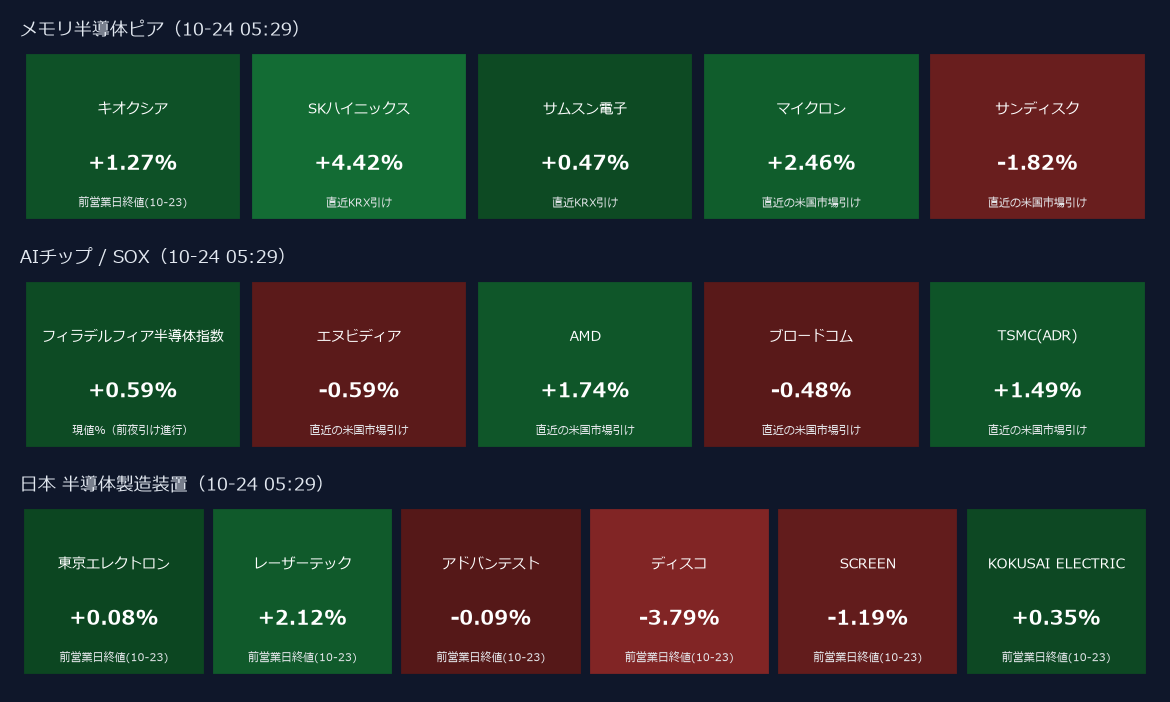
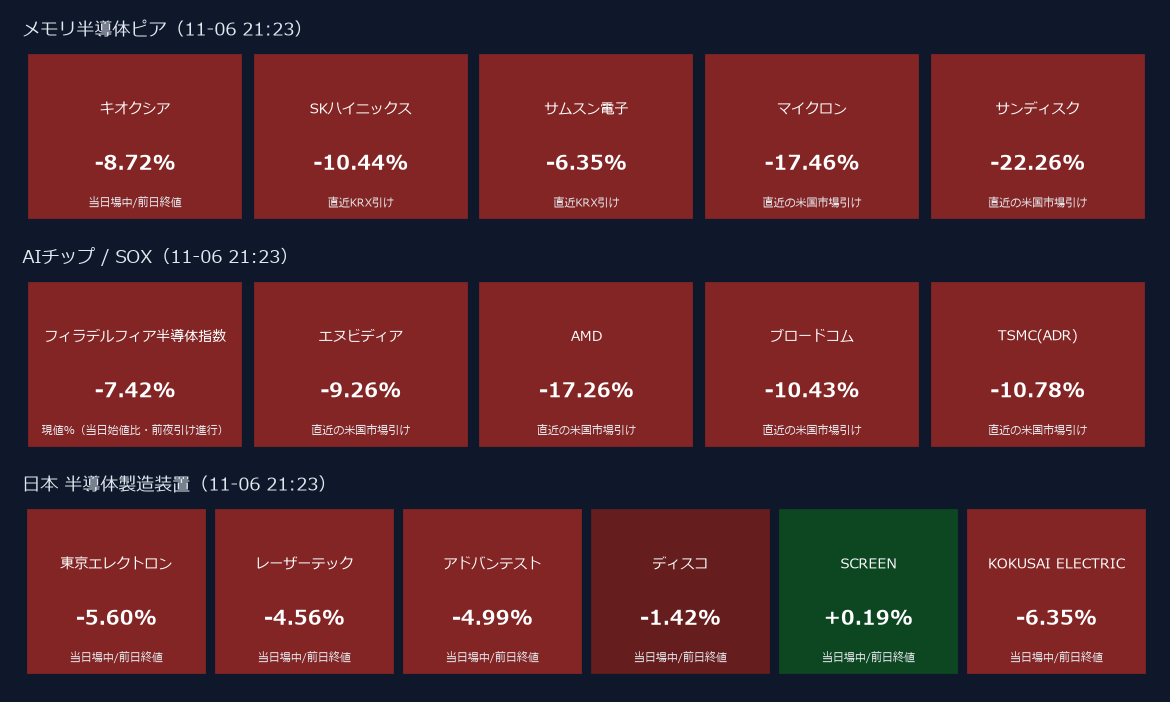
auto: refresh static site (2026-11-06 21:29:19 JST)

diff --git a/docs/index.html b/docs/index.html
@@ -81,8 +81,8 @@ a{color:var(--acc)}.disc{border-top:1px solid var(--border);margin-top:24px;padd
 <body><div class="wrap">
 <h1>🧠 AIセクター ワールドモニター | キオクシア(285A) 投資参考情報（投資は自己責任）</h1>
 <a class="cross-link" href="https://ethanhuntstock.github.io/Keijiban-bunseki/" target="_blank" rel="noopener noreferrer">🔗 285A 掲示板投稿の詳細分析による投資情報（静的版）</a>
-<div class="muted">静的共有版｜生成 2026-11-06 21:18 JST｜価格: Yahoo Finance｜ニュース: RSS｜イベント: 手動正本｜60秒毎に自動更新（ブラウザが自動的に再読み込み）</div>
-<div class="muted">データ取得 11-06 21:18｜公開ページ生成 2026-11-06 21:18 JST（公開サイトへの反映に数分かかることがあります）</div>
+<div class="muted">静的共有版｜生成 2026-11-06 21:28 JST｜価格: Yahoo Finance｜ニュース: RSS｜イベント: 手動正本｜60秒毎に自動更新（ブラウザが自動的に再読み込み）</div>
+<div class="muted">データ取得 11-06 21:28｜公開ページ生成 2026-11-06 21:28 JST（公開サイトへの反映に数分かかることがあります）</div>
 
 <div class="label-note">※「バイアス」「買い目線/売り目線」「発火」「ボラ警戒」は<b>状態を記述するラベル</b>であり売買推奨ではありません。</div>
 <details class="panel"><summary><b>🔤 用語の説明</b>（タップで開く）</summary><ul><li><b>地合いスコア</b>＝マクロ（SOX/円）・メモリ同業・キオクシア固有イベント・ニュース温度を重み付けして合成した観測値。掲示板温度は観測のみ（重み0）。売買推奨ではありません。</li><li><b>型A〜F</b>＝その日の値動きの形を、寄り30分での高安の決まり方と終値の位置から6パターンに機械的に分けたもの（詳細は「本日のチャートの型」の「?」）。場中は暫定です。</li><li><b>ギャップ</b>＝前営業日の終値に対する、寄り値（寄り前は寄り想定）の差の率。</li><li><b>板寄せ</b>＝注文をいったん集めて、売りと買いが釣り合う値段で一度に約定を決める方式（寄り付きと引けで使われます）。</li><li><b>特別気配</b>＝寄り付きで売りと買いが釣り合わないとき、約定せずに気配値だけが示される状態。寄りの約定が遅れる原因の一つです。</li><li><b>寄り値</b>＝その日の最初の約定の価格。寄り前の気配（板の売り買いの気配）とは別の値です。</li><li><b>寄り遅れ日</b>＝285Aの最初の約定が09:00から3分以上遅れた日（観測のみ・原因の断定はしません）。</li></ul></details>
@@ -90,7 +90,7 @@ a{color:var(--acc)}.disc{border-top:1px solid var(--border);margin-top:24px;padd
 <p id='like-button-wrap' class='muted'><button id='like-button' type='button' class='like-btn'>👍</button><span id='like-count-label'>このダッシュボードが役に立ったら押してください（累計 3 いいね）</span></p>
 
 <h2>🤖 AI考察<span class="help" tabindex="0"><span class="help-ico">?</span><span class="help-pop">【数値要約】は、モニターが観測している主要な指標（地合いスコア・285A・ピア・為替・需給・寄りの状態・予定など）の値を、元データのまま定型の文にして約10分ごとに更新する要約です（文章の自動生成はしていません）。<br><br>【Claude考察】は、平日の寄り前・寄り直後・前場引け前・大引け後（急変時は臨時）にClaude(AI)が書いた観測・状況整理で、書かれた時点を明記し、その後の数値は上の数値要約で更新しています。<br><br><b>無料公開データの観測情報であり、投資助言・売買推奨ではありません。</b>更新の時点と周期は、下の「AI考察の予定」を参照してください。値動きへの反映にはタイムラグがあります。</span></span></h2>
-<div class="panel ai-insight-box ai-summary-box"><b>【数値要約｜21:13 更新】</b><div>大引け後・本日(11-06)の終値時点の値</div><div>地合い: ショート寄り -46.9（前回 11-05 -38.5・前回比 -8.5）／主因=メモリピア -30.0pt・マクロ(SOX/円) -18.3pt</div><div>285A: 8,511円（前営業日終値比 -8.72%）・出来高倍率 2.21・テクニカル=弱気・型=寄り底・終日上昇</div><div>ピア: メモリ 平均 -13.05%（最大変動 サンディスク -22.26%）／AIチップ/SOX 平均 -11.03%（最大変動 AMD -17.26%）／日本の半導体製造装置関連 平均 -3.79%（最大変動 KOKUSAI ELECTRIC -6.35%）</div><div>為替・先物: USDJPY -0.04%・米10年 4.84%・日経先物 前日比 +2.14%（現物前日終値比 +1.66%）</div><div>需給: 信用倍率 25.42（11-05基準・前営業日比 -33.6%）</div><div>寄り: 寄り不完全（遅れ45銘柄・285Aの最初の約定 09:27:02）・費用倍率 直前営業日406.9倍・直近平均371.0倍（往復費用 2.76bp・分割前水準の実測／分割後の試算(暫定) 3.36bp）</div><div>変化点: 前回から大きな変化なし</div><div>予定: 11-06 米雇用統計(10月分)・11-10 米CPI(10月分)・11-23 東証休場(勤労感謝の日)・12-04 米雇用統計(11月分)</div></div><div class="panel ai-insight-box ai-claude-box"><b>【Claude考察｜11-06 17:31 時点（大引け後）】</b><div>※無料公開データを機械的に集計した観測情報であり、投資助言・売買推奨ではありません。（11-06 大引け後の整理・17:31時点）<br>
+<div class="panel ai-insight-box ai-summary-box"><b>【数値要約｜21:24 更新】</b><div>大引け後・本日(11-06)の終値時点の値</div><div>地合い: ショート寄り -46.5（前回 11-05 -38.5・前回比 -8.1）／主因=メモリピア -30.0pt・マクロ(SOX/円) -17.9pt</div><div>285A: 8,511円（前営業日終値比 -8.72%）・出来高倍率 2.21・テクニカル=弱気・型=寄り底・終日上昇</div><div>ピア: メモリ 平均 -13.05%（最大変動 サンディスク -22.26%）／AIチップ/SOX 平均 -11.03%（最大変動 AMD -17.26%）／日本の半導体製造装置関連 平均 -3.79%（最大変動 KOKUSAI ELECTRIC -6.35%）</div><div>為替・先物: USDJPY -0.02%・米10年 4.84%・日経先物 前日比 +1.93%（現物前日終値比 +1.45%）</div><div>需給: 信用倍率 25.42（11-05基準・前営業日比 -33.6%）</div><div>寄り: 寄り不完全（遅れ45銘柄・285Aの最初の約定 09:27:02）・費用倍率 直前営業日406.9倍・直近平均371.0倍（往復費用 2.76bp・分割前水準の実測／分割後の試算(暫定) 3.36bp）</div><div>変化点: 前回から大きな変化なし</div><div>予定: 11-06 米雇用統計(10月分)・11-10 米CPI(10月分)・11-23 東証休場(勤労感謝の日)・12-04 米雇用統計(11月分)</div></div><div class="panel ai-insight-box ai-claude-box"><b>【Claude考察｜11-06 17:31 時点（大引け後）】</b><div>※無料公開データを機械的に集計した観測情報であり、投資助言・売買推奨ではありません。（11-06 大引け後の整理・17:31時点）<br>
 <br>
 ■ 本日の285A：寄りが遅れた日<br>
 285Aの本日の終値は8,511円で、前営業日（11-05）の終値9,324円と比べて-8.72%でした。寄り付きは09:27:02で通常より遅れ、寄り値は7,900円（寄り値の前営業日の終値からの変化は-15.27%）でした。当日高値は8,718円（11:29）、安値は7,900円（09:27）でした。<br>
@@ -110,7 +110,7 @@ a{color:var(--acc)}.disc{border-top:1px solid var(--border);margin-top:24px;padd
 ■ 需給と今後の予定<br>
 キオクシア（285A）の信用倍率は11-05基準で25.42倍（1つ前の11-04基準は38.28倍）です。今後は11-10に米CPI(10月分)、11-23に東証休場(勤労感謝の日)、12-04に米雇用統計(11月分)が予定されています。以上は将来の値動きを示すものではありません。<br>
 <br>
-※訂正のお知らせ：11-06の寄り直後・臨時・前場引け前・大引け後の考察で、285Aの寄り値と安値を7,905円（寄り値の前営業日比-15.22%）と記載していましたが、正しくは7,900円（同-15.27%）でした。記録している最初の約定が寄り付き直後の値だったためで、取引所の日足と1分足の寄り値・安値は7,900円です。</div><div class="muted">※この考察は3時間46分前のものです。以降の数値は上の数値要約で更新しています。</div></div><div class="asof-line">根拠データの時点（公開ページ生成時の取得時点）: <span>価格 21:18</span>／<span>マクロ 21:18</span>／<span>ニュース 21:18</span>／<span>掲示板 21:06</span>／<span>地合い 21:18</span></div>
+※訂正のお知らせ：11-06の寄り直後・臨時・前場引け前・大引け後の考察で、285Aの寄り値と安値を7,905円（寄り値の前営業日比-15.22%）と記載していましたが、正しくは7,900円（同-15.27%）でした。記録している最初の約定が寄り付き直後の値だったためで、取引所の日足と1分足の寄り値・安値は7,900円です。</div><div class="muted">※この考察は3時間57分前のものです。以降の数値は上の数値要約で更新しています。</div></div><div class="asof-line">根拠データの時点（公開ページ生成時の取得時点）: <span>価格 21:28</span>／<span>マクロ 21:29</span>／<span>ニュース 21:28</span>／<span>掲示板 21:22</span>／<span>地合い 21:28</span></div>
 <div class="ai-schedule"><b>AI考察の予定</b><div>平日の立会日に、寄り前 08:50／寄り直後 09:10／前場引け前 11:30／大引け後 15:45 の4時点で考察を更新します（考察はClaude(AI)が書きます）。</div><div>土日祝などの休場日は考察を書きません。</div><div>時点の間は、数値のみを約10分ごとに更新します（文章は次の時点まで更新されません）。</div><div>次の予定: 11-09 08:50（寄り前）／直近の更新: 11-06 17:31（大引け後）</div></div>
 
 <h2>🗓 週次サマリー（今週のセクターの流れ）<span class="help" tabindex="0"><span class="help-ico">?</span><span class="help-pop">regime_score_log.csv(既存のOOS台帳と同じ台帳)の直近5営業日を集計しただけの観測パネルです。新規のデータ取得・LLM呼び出しは一切ありません。<br><br><b>観測情報であり売買シグナルではありません。</b>バイアスの当たり外れ(方向的中率)は標本が少なすぎるためここでは判定しません(判定は既存の「📒OOS台帳」を参照)。</span></span></h2>
@@ -125,18 +125,18 @@ a{color:var(--acc)}.disc{border-top:1px solid var(--border);margin-top:24px;padd
 <h2>今日のバイアス（地合いスコア）<span class="help" tabindex="0"><span class="help-ico">?</span><span class="help-pop">複数の判断材料（マクロ・メモリ同業・キオクシア固有イベント・ニュース）を1つに合成した“今日の地合い（売買の傾き）”です。プラスほど買い目線、マイナスほど売り目線。<br><br><b>表の見方</b><br>subscore＝各軸の素点（-1〜+1）／weight＝その軸の重み（合計が1になるよう設計）／寄与＝subscore×weight×100。寄与がプラスの軸ほどバイアスを押し上げ、マイナスの軸ほど押し下げています。<br><br><b>各軸の意味</b><br>マクロ(SOX/円)＝米半導体指数と為替の逆風/追い風／メモリピア＝同業(SKハイニックス・サムスン・マイクロン・サンディスク)の値動き／キオクシア固有イベント(守り)＝決算・増資等の警戒度合い（マイナス方向のみに働く軸）／ニュース温度＝ニュース見出しの強気/弱気を自動採点。<br><br>total_score ＋10超＝ロング寄り／−10未満＝ショート寄り／その間＝中立。<b>機械的な目安で、最終判断は人・1日で断定しない。</b></span></span></h2>
 <div class="panel">
   <span class="bias short">ショート寄り</span>
-  <span class="score">total -46.7</span>
-  <span class="delta">▼-8.3（前回 11-05 -38.5 ショート寄り・変化なし）</span>
-  <div class="muted">時点 11-06 21:18｜status ok
+  <span class="score">total -46.5</span>
+  <span class="delta">▼-8.0（前回 11-05 -38.5 ショート寄り・変化なし）</span>
+  <div class="muted">時点 11-06 21:28｜status ok
   </div>
   <img src="images/regime.png" alt="地合いスコア内訳">
-  <table><thead><tr><th>軸</th><th class=num>subscore</th><th class=num>weight</th><th class=num>寄与</th></tr></thead><tbody><tr><td>マクロ(SOX/円)</td><td class=num>-0.5164</td><td class=num>0.35</td><td class='num neg'>-18.07</td></tr><tr><td>メモリピア</td><td class=num>-1.0</td><td class=num>0.3</td><td class='num neg'>-30.00</td></tr><tr><td>キオクシア固有イベント(守り)</td><td class=num>0.0</td><td class=num>0.2</td><td class='num '>+0.00</td></tr><tr><td>ニュース温度</td><td class=num>0.0909</td><td class=num>0.15</td><td class='num pos'>+1.36</td></tr><tr><td>掲示板温度(観測)</td><td class=num>0.0954</td><td class=num>0.0</td><td class='num '>+0.00</td></tr><tr><td>予想ボラ(観測)</td><td class=num>-0.3553</td><td class=num>0.0</td><td class='num '>+0.00</td></tr></tbody></table>
+  <table><thead><tr><th>軸</th><th class=num>subscore</th><th class=num>weight</th><th class=num>寄与</th></tr></thead><tbody><tr><td>マクロ(SOX/円)</td><td class=num>-0.5104</td><td class=num>0.35</td><td class='num neg'>-17.86</td></tr><tr><td>メモリピア</td><td class=num>-1.0</td><td class=num>0.3</td><td class='num neg'>-30.00</td></tr><tr><td>キオクシア固有イベント(守り)</td><td class=num>0.0</td><td class=num>0.2</td><td class='num '>+0.00</td></tr><tr><td>ニュース温度</td><td class=num>0.0909</td><td class=num>0.15</td><td class='num pos'>+1.36</td></tr><tr><td>掲示板温度(観測)</td><td class=num>0.0897</td><td class=num>0.0</td><td class='num '>+0.00</td></tr><tr><td>予想ボラ(観測)</td><td class=num>-0.3553</td><td class=num>0.0</td><td class='num '>+0.00</td></tr></tbody></table>
   <div class="muted">total_score ＋10超＝ロング寄り／−10未満＝ショート寄り／その間＝中立。内訳を見て最終判断は人・1日で断定しない。</div>
-  <div class="plain">掲示板センチメント(強気/弱気の投稿の傾き)を観測用の第5軸として表示しています。今は重みゼロの観測専用で、地合いスコアには含まれません。</div><div class="muted">掲示板温度 +0.10（観測・寄与0）｜灼熱 32／セリクラ 35｜発火 2/9｜11-06 21:06　｜直近6h推移: 強気比<span class="">—</span>（上昇）</div>
+  <div class="plain">掲示板センチメント(強気/弱気の投稿の傾き)を観測用の第5軸として表示しています。今は重みゼロの観測専用で、地合いスコアには含まれません。</div><div class="muted">掲示板温度 +0.09（観測・寄与0）｜灼熱 33／セリクラ 35｜発火 2/9｜11-06 21:22　｜直近6h推移: 強気比<span class="">—</span>（上昇）</div>
 </div>
 
 <h2>寄り前ブリーフ<span class="help" tabindex="0"><span class="help-ico">?</span><span class="help-pop">前夜の米国市場（SOX指数・マイクロン等）と為替・金利から、今朝のキオクシア(285A)の寄り付き方向（上ギャップ＝高く始まる/下ギャップ＝安く始まる）を推定します。“攻め”は順張りしやすい地合い、“守り”は慎重・無理しない地合い。<br><br><b>表の項目</b><br>各行＝前夜の米国市場や為替の変化率(値%)に重み(weight)を掛けて寄与に変換したもの。SOX指数（フィラデルフィア半導体指数）＝米半導体株の代表指数／マイクロン(MU)・サンディスク(SNDK)＝キオクシアと同じNAND/DRAM同業の米国株／エヌビディア(NVDA)＝AI需要の代表株／ドル円(USD/JPY)＝前夜からの為替変化（円安＝寄与＋）／米10年金利(^TNX)＝米国債10年利回り（配信値を1/10に正規化。上昇はグロース株に逆風）。</span></span></h2>
-<div class="panel"><div class="plain">前夜の米国市場と為替・金利から、今朝のキオクシア(285A)の寄り付き方向を推定した記述です。▼ 下ギャップ＝高く/安く始まる見立て、「守り」＝攻め(順張りしやすい)/守り(慎重)/中立のいずれか。</div><div class="muted"><b>▼ 下ギャップ</b>　守り　日経先物の前日比（NIY=F） +2.25%（NIY=F）　現物前日終値比 +1.77%（先物終値÷現物2026-11-06終値−1・参考）</div><table><thead><tr><th>項目</th><th class=num>値%</th><th class=num>weight</th><th class=num>寄与</th><th>時点/注記</th></tr></thead><tbody><tr><td>SOX指数（フィラデルフィア半導体）</td><td class='num neg'>-7.42%</td><td class=num>0.3</td><td class='num neg'>-2.227</td><td class=muted>現値%（当日始値→直近値・前日終値比ではない） · 11-06 21:18</td></tr><tr><td>マイクロン（MU）</td><td class='num neg'>-17.46%</td><td class=num>0.15</td><td class='num neg'>-2.619</td><td class=muted>直近の米国引け · 11-06 21:18</td></tr><tr><td>エヌビディア（NVDA）</td><td class='num neg'>-9.26%</td><td class=num>0.15</td><td class='num neg'>-1.389</td><td class=muted>直近の米国引け · 11-06 21:18</td></tr><tr><td>サンディスク（SNDK）</td><td class='num neg'>-22.26%</td><td class=num>0.15</td><td class='num neg'>-3.340</td><td class=muted>直近の米国引け · 11-06 21:18</td></tr><tr><td>ドル円（USD/JPY）</td><td class='num neg'>-0.03%</td><td class=num>0.15</td><td class='num neg'>-0.005</td><td class=muted>夜間変化%（円安=+寄与） · 11-06 21:18</td></tr><tr><td>米10年金利（^TNX）</td><td class='num neg'>-1.16%</td><td class=num>-0.1</td><td class='num pos'>+0.117</td><td class=muted>10年金利(1/10正規化)前日比%・上昇=逆風 · 11-06 21:18</td></tr></tbody></table></div>
+<div class="panel"><div class="plain">前夜の米国市場と為替・金利から、今朝のキオクシア(285A)の寄り付き方向を推定した記述です。▼ 下ギャップ＝高く/安く始まる見立て、「守り」＝攻め(順張りしやすい)/守り(慎重)/中立のいずれか。</div><div class="muted"><b>▼ 下ギャップ</b>　守り　日経先物の前日比（NIY=F） +1.96%（NIY=F）　現物前日終値比 +1.48%（先物終値÷現物2026-11-06終値−1・参考）</div><table><thead><tr><th>項目</th><th class=num>値%</th><th class=num>weight</th><th class=num>寄与</th><th>時点/注記</th></tr></thead><tbody><tr><td>SOX指数（フィラデルフィア半導体）</td><td class='num neg'>-7.42%</td><td class=num>0.3</td><td class='num neg'>-2.227</td><td class=muted>現値%（当日始値→直近値・前日終値比ではない） · 11-06 21:28</td></tr><tr><td>マイクロン（MU）</td><td class='num neg'>-17.46%</td><td class=num>0.15</td><td class='num neg'>-2.619</td><td class=muted>直近の米国引け · 11-06 21:28</td></tr><tr><td>エヌビディア（NVDA）</td><td class='num neg'>-9.26%</td><td class=num>0.15</td><td class='num neg'>-1.389</td><td class=muted>直近の米国引け · 11-06 21:28</td></tr><tr><td>サンディスク（SNDK）</td><td class='num neg'>-22.26%</td><td class=num>0.15</td><td class='num neg'>-3.340</td><td class=muted>直近の米国引け · 11-06 21:28</td></tr><tr><td>ドル円（USD/JPY）</td><td class='num neg'>-0.02%</td><td class=num>0.15</td><td class='num neg'>-0.003</td><td class=muted>夜間変化%（円安=+寄与） · 11-06 21:28</td></tr><tr><td>米10年金利（^TNX）</td><td class='num neg'>-1.16%</td><td class=num>-0.1</td><td class='num pos'>+0.117</td><td class=muted>10年金利(1/10正規化)前日比%・上昇=逆風 · 11-06 21:28</td></tr></tbody></table></div>
 
 <h2>本日のギャップとチャート型の傾向（285A・観測）<span class="help" tabindex="0"><span class="help-ico">?</span><span class="help-pop">前営業日終値から本日の始値（寄り値）がどれだけ離れたか（ギャップ%）と、その向き（アップ／ダウン）と「型」（往復型／トレンド型）との関係を、台帳の直近40営業日で毎朝確かめた結果です。上下とも8日以上あり、往復型の割合の差が20pt以上で統計的にも有意（z値1.64以上）な日だけ傾向文を表示し、確認できない日は「確認されていません」と表示します（発見時の標本では差が見えましたが、その後の期間では差が消えているため固定の傾向文はやめました）。前向きの検証はまだ済んでいません。<b>予測ではなく、売買シグナルでもありません。</b></span></span></h2>
 <div class="panel"><div class="muted">本日のギャップ＝<b>-14.48%</b>（ギャップダウン）</div><div class="plain">直近40営業日の観測では、ギャップの向きと型（往復型／トレンド型）の関係は確認されていません。</div><div class="muted">傾向であり予測ではありません（既視データでの観測にとどまり、前向き検証は未了です）。</div></div>
@@ -209,7 +209,7 @@ a{color:var(--acc)}.disc{border-top:1px solid var(--border);margin-top:24px;padd
 <h3>過去イベント類型(参考・件数集計)</h3><div class=muted>その他 17件／株主総会 1件／決算 11件／金融政策 10件</div><div class="muted">2027-02-12　[決算]　キオクシア 第3四半期決算（10-12月）</div><div class="muted">2026-12-18　[金融政策]　日銀金融政策決定会合（12月）</div><div class="muted">2026-12-11　[その他]　米CPI（11月分）</div></div>
 
 <h2>マクロ（USDJPY / 金利 / FOMC）<span class="help" tabindex="0"><span class="help-ico">?</span><span class="help-pop">円相場・米金利・次回FOMCまでの日数です。円高はキオクシア(輸出採算)に逆風、米金利上昇はグロース半導体のバリュエーションに逆風という見方の目安です。</span></span></h2>
-<div class="panel"><div class="plain">円相場・米金利・次回FOMCまでの日数です。円高はキオクシア(輸出採算)に逆風、米金利上昇はグロース半導体のバリュエーションに逆風という見方の目安です。</div><table><tbody><tr><td>ドル円(USD/JPY)</td><td class="num neg">158.30円 （-0.04%）</td></tr><tr><td>米10年金利(^TNX)</td><td class="num pos">4.84% （-5.7bp）</td></tr><tr><td>次回FOMCまで</td><td class=num>33日（2026-12-09）</td></tr></tbody></table><div class="muted">円高=285A逆風 / 金利上昇=グロース半導体に逆風</div></div>
+<div class="panel"><div class="plain">円相場・米金利・次回FOMCまでの日数です。円高はキオクシア(輸出採算)に逆風、米金利上昇はグロース半導体のバリュエーションに逆風という見方の目安です。</div><table><tbody><tr><td>ドル円(USD/JPY)</td><td class="num neg">158.34円 （-0.01%）</td></tr><tr><td>米10年金利(^TNX)</td><td class="num pos">4.84% （-5.7bp）</td></tr><tr><td>次回FOMCまで</td><td class=num>33日（2026-12-09）</td></tr></tbody></table><div class="muted">円高=285A逆風 / 金利上昇=グロース半導体に逆風</div></div>
 
 </div>
 <div class="tabpane" data-tab-panel="matref">
@@ -234,7 +234,7 @@ a{color:var(--acc)}.disc{border-top:1px solid var(--border);margin-top:24px;padd
 <div class="panel"><div class="plain">285A(キオクシア)以外の半導体製造装置(SPE)関連銘柄の信用残高です。出典・見方は上の285Aパネルと同じ(JPX日次公表・買残÷売残＝信用倍率)。</div><table><thead><tr><th>銘柄</th><th>基準日</th><th class=num>信用買残</th><th class=num>信用売残</th><th class=num>倍率</th><th>直近5営業日の倍率(新しい順)</th></tr></thead><tbody><tr><td>キオクシア（285A）</td><td>2026-11-05</td><td class=num>52,850,100</td><td class=num>2,078,700</td><td class='num amber'>25.42倍</td><td class=muted>11-05 25.42 ／ 11-04 38.28 ／ 11-02 44.44 ／ 10-30 33.04 ／ 10-29 22.90</td></tr><tr><td>ディスコ（6146）</td><td>2026-11-05</td><td class=num>1,039,300</td><td class=num>96,300</td><td class='num pos'>10.79倍</td><td class=muted>11-05 10.79 ／ 11-04 10.68 ／ 11-02 9.43 ／ 10-30 10.35 ／ 10-29 9.35</td></tr><tr><td>KOKUSAI ELECTRIC（6525）</td><td>2026-11-05</td><td class=num>2,685,900</td><td class=num>281,600</td><td class='num pos'>9.54倍</td><td class=muted>11-05 9.54 ／ 11-04 11.13 ／ 11-02 10.54 ／ 10-30 10.40 ／ 10-29 9.98</td></tr><tr><td>アドバンテスト（6857）</td><td>2026-11-05</td><td class=num>3,572,000</td><td class=num>1,209,300</td><td class='num pos'>2.95倍</td><td class=muted>11-05 2.95 ／ 11-04 2.47 ／ 11-02 2.00 ／ 10-30 2.23 ／ 10-29 1.81</td></tr><tr><td>レーザーテック（6920）</td><td>2026-11-05</td><td class=num>1,399,200</td><td class=num>225,900</td><td class='num pos'>6.19倍</td><td class=muted>11-05 6.19 ／ 11-04 4.43 ／ 11-02 2.98 ／ 10-30 5.61 ／ 10-29 4.06</td></tr><tr><td>SCREEN（7735）</td><td>2026-11-05</td><td class=num>1,398,000</td><td class=num>153,800</td><td class='num pos'>9.09倍</td><td class=muted>11-05 9.09 ／ 11-04 9.54 ／ 11-02 10.11 ／ 10-30 6.55 ／ 10-29 7.05</td></tr><tr><td>東京エレクトロン（8035）</td><td>2026-11-05</td><td class=num>11,808,100</td><td class=num>897,900</td><td class='num pos'>13.15倍</td><td class=muted>11-05 13.15 ／ 11-04 12.99 ／ 11-02 11.49 ／ 10-30 22.27 ／ 10-29 22.19</td></tr></tbody></table><div class="muted">信用取引残高の推移を示す観測データであり、売買シグナルではありません。285A(キオクシア)以外はSPE系(東京エレクトロン/レーザーテック/アドバンテスト/ディスコ/SCREEN/KOKUSAI ELECTRIC)が対象です。</div></div>
 
 <h2>夜間PTS・米国ADR円換算（285A・SPE銘柄）<span class="help" tabindex="0"><span class="help-ico">?</span><span class="help-pop">大引け後のPTS(私設取引システム)と米国ADR(円換算)の直近値です。取引時間外の観測データで、翌営業日の寄り付きを保証するものではありません（nikkei225jp.com公表データ）。</span></span></h2>
-<div class="panel"><div class="plain">大引け後のPTS(私設取引システム・夜間取引)と米国ADR(円換算)の直近値です。変化率はその銘柄のTSE大引け値との比較(取引が無い時間帯は"—")。翌営業日の寄り付きを保証するものではなく、参考の観測情報です。</div><table><thead><tr><th>銘柄</th><th class=num>TSE大引け</th><th class=num>PTS</th><th class=num>米国ADR</th></tr></thead><tbody><tr><td>キオクシア（285A）</td><td class=num>8,511.0円（11/06 15:30）</td><td class=num>8,910.0円（+4.69%・11/06 21:15）</td><td class=num>—</td></tr><tr><td>ディスコ（6146）</td><td class=num>40,860.0円（11/06 15:30）</td><td class=num>42,100.0円（+3.03%・11/06 20:39）</td><td class=num>—</td></tr><tr><td>アドバンテスト（6857）</td><td class=num>28,015.0円（11/06 15:30）</td><td class=num>29,090.0円（+3.84%・11/06 21:14）</td><td class=num>—</td></tr><tr><td>レーザーテック（6920）</td><td class=num>32,040.0円（11/06 15:30）</td><td class=num>32,900.0円（+2.68%・11/06 21:08）</td><td class=num>—</td></tr><tr><td>東京エレクトロン（8035）</td><td class=num>8,263.0円（11/06 15:30）</td><td class=num>8,534.0円（+3.28%・11/06 21:14）</td><td class=num>—</td></tr></tbody></table><div class="muted">出典: nikkei225jp.com（無料公開フィード・観測データ）</div></div>
+<div class="panel"><div class="plain">大引け後のPTS(私設取引システム・夜間取引)と米国ADR(円換算)の直近値です。変化率はその銘柄のTSE大引け値との比較(取引が無い時間帯は"—")。翌営業日の寄り付きを保証するものではなく、参考の観測情報です。</div><table><thead><tr><th>銘柄</th><th class=num>TSE大引け</th><th class=num>PTS</th><th class=num>米国ADR</th></tr></thead><tbody><tr><td>キオクシア（285A）</td><td class=num>8,511.0円（11/06 15:30）</td><td class=num>8,900.0円（+4.57%・11/06 21:23）</td><td class=num>—</td></tr><tr><td>ディスコ（6146）</td><td class=num>40,860.0円（11/06 15:30）</td><td class=num>42,100.0円（+3.03%・11/06 20:39）</td><td class=num>—</td></tr><tr><td>アドバンテスト（6857）</td><td class=num>28,015.0円（11/06 15:30）</td><td class=num>29,000.0円（+3.52%・11/06 21:23）</td><td class=num>—</td></tr><tr><td>レーザーテック（6920）</td><td class=num>32,040.0円（11/06 15:30）</td><td class=num>32,899.0円（+2.68%・11/06 21:22）</td><td class=num>—</td></tr><tr><td>東京エレクトロン（8035）</td><td class=num>8,263.0円（11/06 15:30）</td><td class=num>8,557.0円（+3.56%・11/06 21:24）</td><td class=num>—</td></tr></tbody></table><div class="muted">出典: nikkei225jp.com（無料公開フィード・観測データ）</div></div>
 
 <h2>半導体拠点マップ（一覧）<span class="help" tabindex="0"><span class="help-ico">?</span><span class="help-pop">メモリ/ファウンドリ/装置/データセンターの世界の主要拠点と、台湾海峡など輸送・地政学リスク地点の一覧です（インタラクティブな地図はライブ版でのみ表示）。地政学ニュースが出た時に「どこの話か・サプライチェーンへの影響」を把握する手がかりになります。</span></span></h2>
 <div class="panel"><div class="plain">メモリ/ファウンドリ/装置/データセンターの世界の主要拠点と、台湾海峡など輸送・地政学リスク地点の一覧です（地図はライブ版でのみ表示）。地政学ニュースが出た時に「どこの話か・サプライチェーンへの影響」を把握する手がかりになります。</div><table><tbody><tr><td class=muted>メモリ</td><td>キオクシア 四日市工場</td><td class=muted>キオクシア(285A)/サンディスク主力NAND拠点。世界最大級のNAND生産。BiCS FLASH量産の中核</td></tr><tr><td class=muted>メモリ</td><td>キオクシア 北上工場</td><td class=muted>キオクシアの新世代NAND(BiCS第8世代)増強拠点。岩手県北上市</td></tr><tr><td class=muted>メモリ</td><td>SKハイニックス 利川</td><td class=muted>SKハイニックスの主力DRAM/HBM拠点。AI向けHBMで世界首位級</td></tr><tr><td class=muted>メモリ</td><td>サムスン 華城(ファソン)</td><td class=muted>サムスン電子のメモリ/ファウンドリ拠点。DRAM・NAND・ロジック</td></tr><tr><td class=muted>メモリ</td><td>サムスン 平沢(ピョンテク)</td><td class=muted>サムスン最大級メモリ拠点。先端DRAM/NAND/HBM増強</td></tr><tr><td class=muted>メモリ</td><td>マイクロン 広島工場</td><td class=muted>マイクロンの先端DRAM拠点(日本)。EUV導入のDRAM量産</td></tr><tr><td class=muted>メモリ</td><td>マイクロン 本社/ボイシ</td><td class=muted>マイクロン(MU)本社・米国DRAM拠点。NAND/DRAMピア</td></tr><tr><td class=muted>ファウンドリ</td><td>TSMC 新竹</td><td class=muted>TSMC本拠・先端ロジックの中核。AIチップ(NVIDIA/AMD)を受託製造</td></tr><tr><td class=muted>ファウンドリ</td><td>TSMC 熊本(JASM)</td><td class=muted>TSMCの日本ファウンドリ(JASM)。ソニー/デンソー連携。第2工場計画</td></tr><tr><td class=muted>ファウンドリ</td><td>TSMC アリゾナ</td><td class=muted>TSMC米国拠点。先端ノードの域内供給</td></tr><tr><td class=muted>ファウンドリ</td><td>インテル ファウンドリ</td><td class=muted>インテルのファウンドリ事業。先端ロジック内製/受託</td></tr><tr><td class=muted>equipment</td><td>ASML フェルトホーフェン</td><td class=muted>EUV露光装置の独占供給(オランダ)。先端半導体製造の死活的ボトルネック</td></tr><tr><td class=muted>equipment</td><td>東京エレクトロン(8035)</td><td class=muted>成膜/エッチング等の製造装置大手(日本)。SPEヒートマップの中核銘柄</td></tr><tr><td class=muted>equipment</td><td>アプライド・マテリアルズ</td><td class=muted>米製造装置最大手。WFE市況のバロメーター</td></tr><tr><td class=muted>equipment</td><td>レーザーテック(6920)</td><td class=muted>EUVマスク検査で独占的(日本)。SPE銘柄</td></tr><tr><td class=muted>equipment</td><td>アドバンテスト(6857)</td><td class=muted>半導体テスタ大手(日本)。AI/HBMテスト需要で注目。SPE銘柄</td></tr><tr><td class=muted>データセンター</td><td>NVIDIA 本社</td><td class=muted>AI GPU設計の中核(米サンタクララ)。AIチップ需要の震源</td></tr><tr><td class=muted>チョークポイント</td><td>台湾海峡</td><td class=muted>先端半導体供給の地政学的要衝。封鎖/緊張は全AI半導体に波及するチョークポイント</td></tr><tr><td class=muted>チョークポイント</td><td>マラッカ海峡</td><td class=muted>東アジア半導体サプライチェーンの海上物流要衝</td></tr><tr><td class=muted>geopolitics</td><td>米中 半導体規制(対中輸出規制)</td><td class=muted>対中先端半導体/装置の輸出規制。需給・各社売上の地政学リスク軸</td></tr></tbody></table></div>
